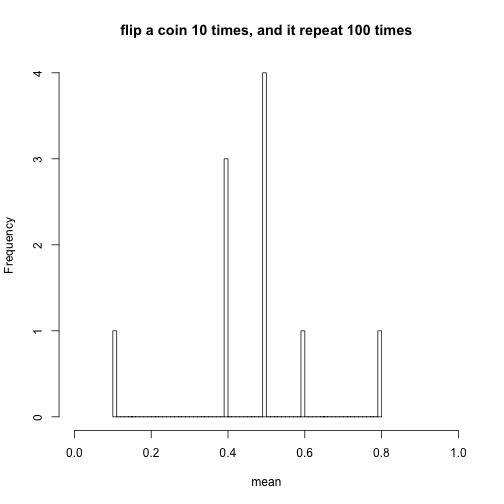
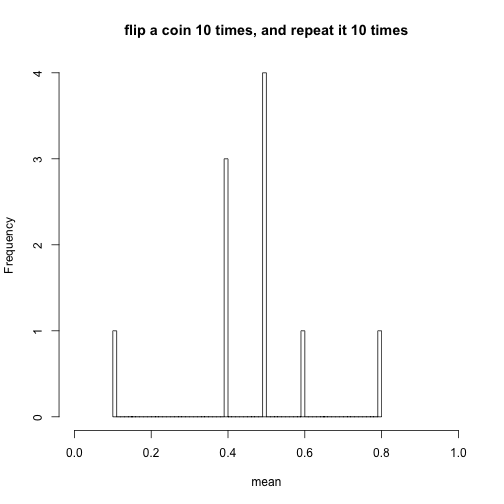
session2

Changed region(s): [[0.2381, 0.0298, 0.8333, 0.0893]]

diff --git a/Statistics2016/Session2_hypothesis_testing.md b/Statistics2016/Session2_hypothesis_testing.md
@@ -121,7 +121,7 @@ sample.size<-10
 for (i in 1:no.experiment){
   mat4plot[i,1]<-mean(rbinom(sample.size,1,0.5))
 }
-hist(mat4plot[,1],xlim=c(0,1),breaks=100,xlab="mean",main="flip a coin 10 times, and it repeat 100 times")
+hist(mat4plot[,1],xlim=c(0,1),breaks=100,xlab="mean",main="flip a coin 10 times, and repeat it 10 times")
 ```
 
 ![plot of chunk unnamed-chunk-6](Session2_hypothesis_testing-figure/unnamed-chunk-6-1.png)
